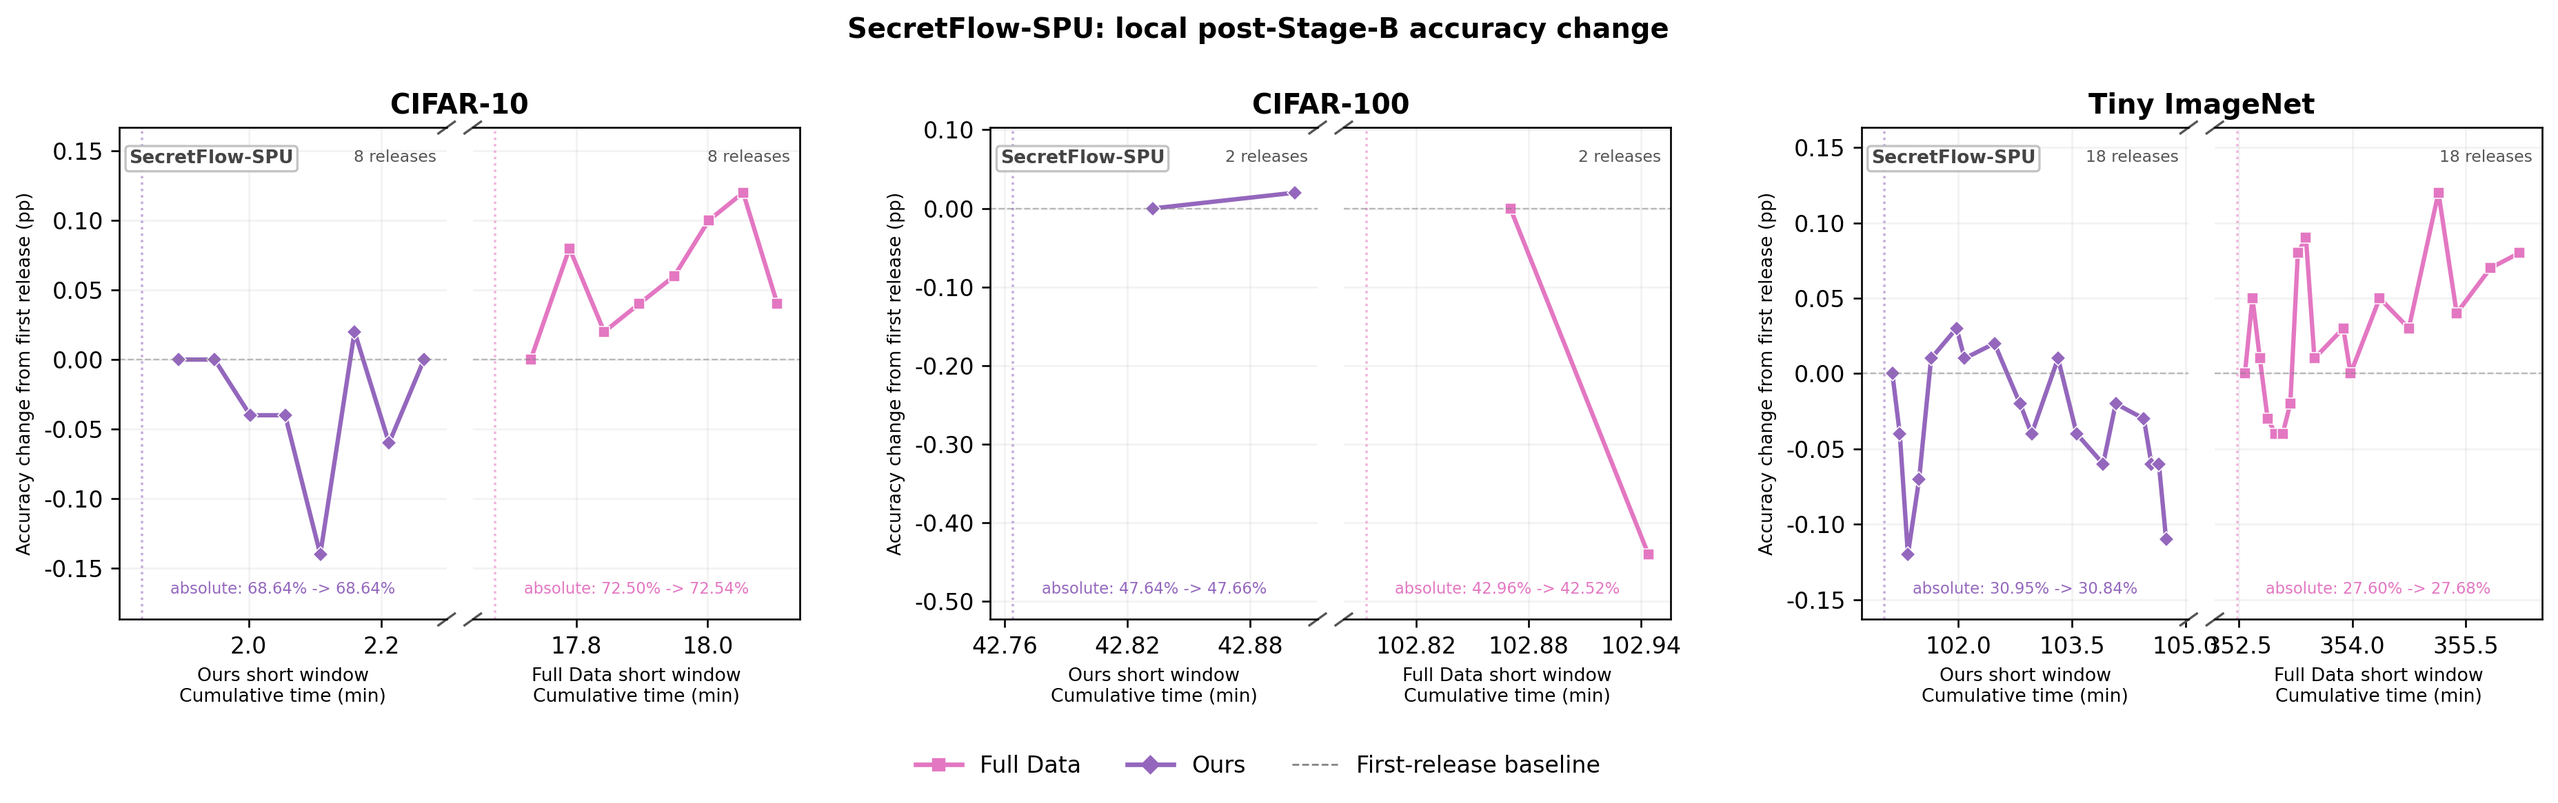
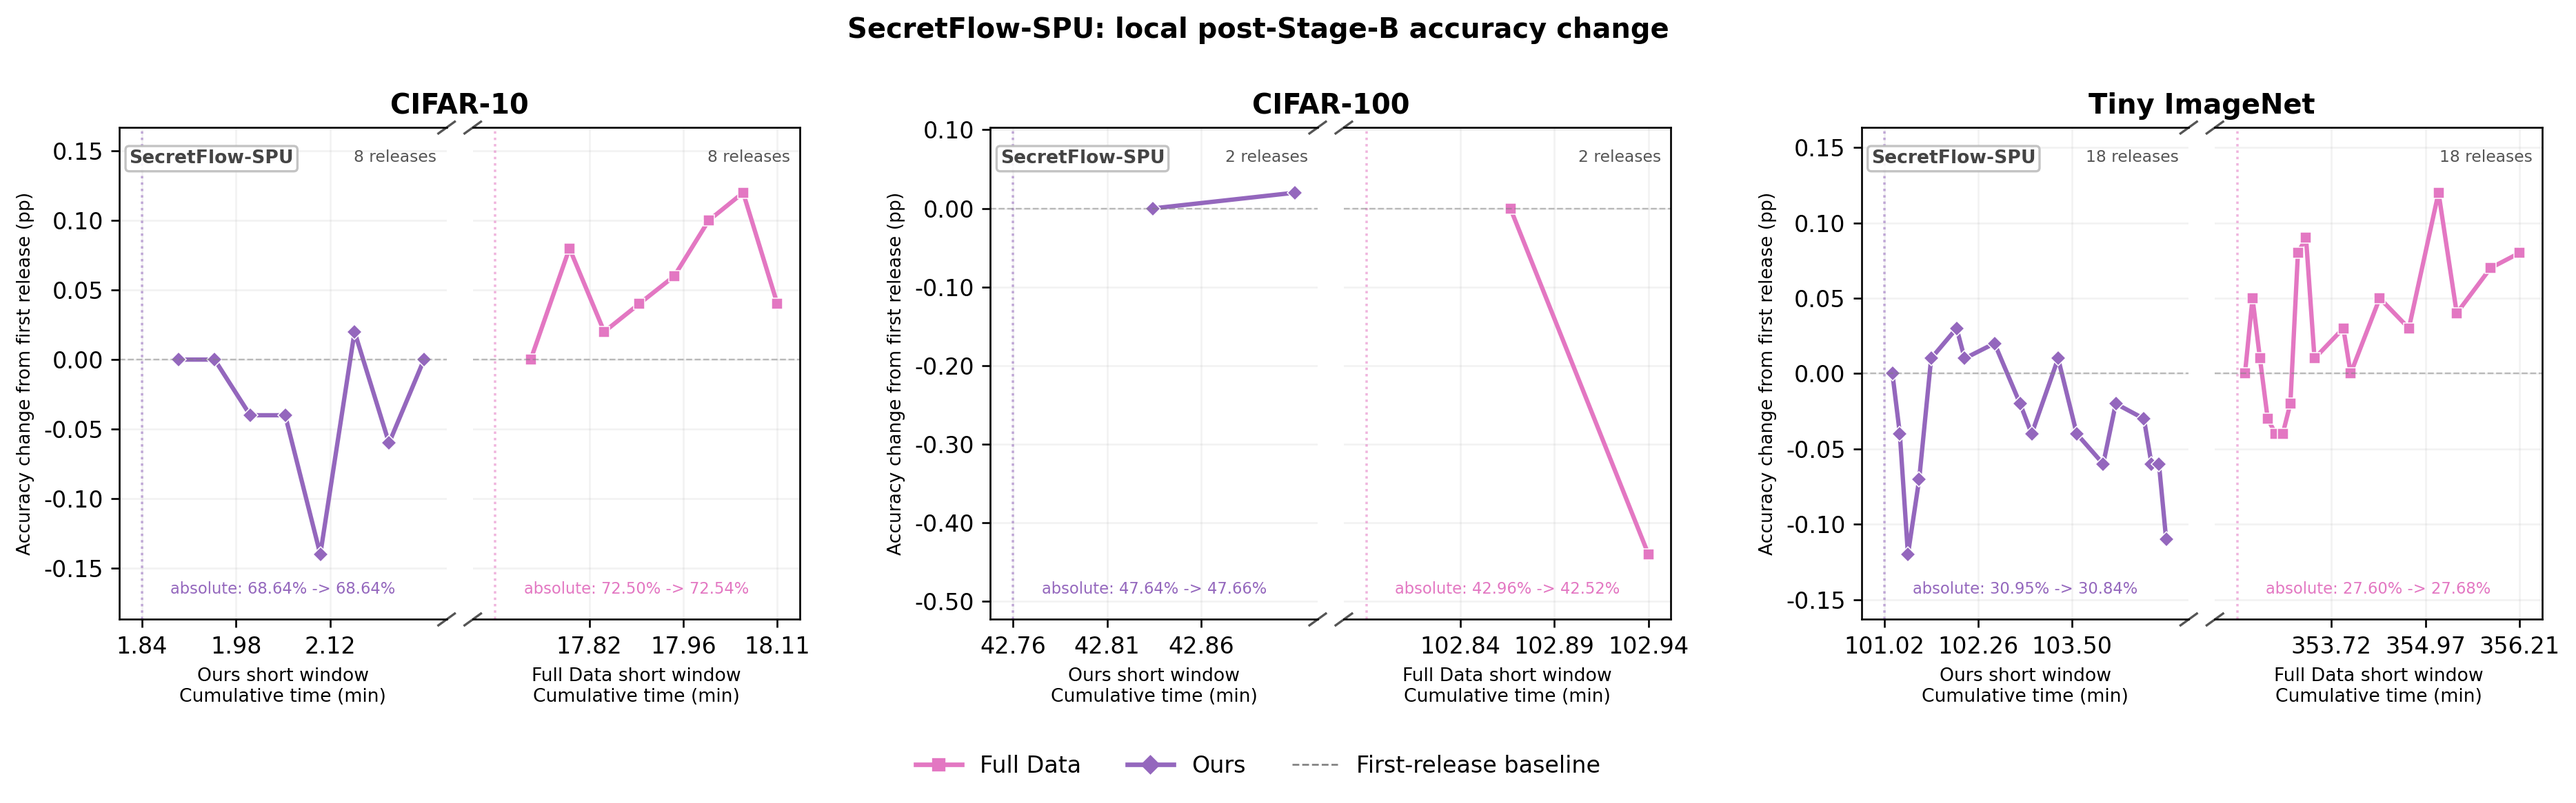
Fix Figure 2b short-axis tick overlap

diff --git a/new_scripts/new_paper_figures/new_build_figures_2_to_5.py b/new_scripts/new_paper_figures/new_build_figures_2_to_5.py
@@ -14,7 +14,7 @@ matplotlib.use("Agg")
 import matplotlib.pyplot as plt
 import numpy as np
 from matplotlib.lines import Line2D
-from matplotlib.ticker import FormatStrFormatter, MaxNLocator, PercentFormatter
+from matplotlib.ticker import FormatStrFormatter, PercentFormatter
 
 
 ROOT = Path(__file__).resolve().parents[2]
@@ -185,8 +185,14 @@ def figure2():
             ax.set_xlim(window_min - 0.08 * span, window_max + 0.08 * span)
             ax.axhline(0.0, color="#808080", linestyle="--", linewidth=0.7, alpha=0.5)
             ax.set_xlabel(window_label + "\nCumulative time (min)", fontsize=8)
-            ax.xaxis.set_major_locator(MaxNLocator(3))
-            ax.ticklabel_format(axis="x", style="plain", useOffset=False)
+            # Keep tick labels away from the diagonal break.  In particular,
+            # Tiny's left-window 105.0 and right-window 352.5 labels otherwise
+            # collide in the narrow gap even though the axes are distinct.
+            candidate_ticks = np.linspace(window_min, window_max, 4)
+            ax.set_xticks(
+                candidate_ticks[:-1] if ax is short_left else candidate_ticks[1:]
+            )
+            ax.xaxis.set_major_formatter(FormatStrFormatter("%.2f"))
             ax.text(
                 0.97, 0.955, "{} releases".format(len(rows)), transform=ax.transAxes,
                 ha="right", va="top", fontsize=7, color="#555555",

diff --git a/progressLog/project_progress.md b/progressLog/project_progress.md
@@ -1567,3 +1567,4 @@
 - 2026-08-09按用户最终指定将Figure 2再次调整为“原始TFE+SPU短轴”：上排严格恢复累计online-secure秒数对数轴、完整蓝/红轨迹、稀疏I型误差条与Stage B→C彩色点线；下排每个数据集以带斜线断口的两个局部短窗分别展开青色Ours与橙色Full，SPU秒数仅换算为分钟缩短标签，完整保留每方法8/2/18个真实点。短轴省略的只是两组观测之间的空白区间，不改变原始坐标或T@Target计算；正文、溯源和图表清单同步说明该视觉边界。
 - 2026-08-09修复Figure 2复查问题：绘图网格从统一2x6改为外层2x3、每个SPU面板内部嵌套1x2短窗，扩大数据集间距以消除CIFAR-100/Tiny y轴与前一面板重叠。SPU归档准确率在Stage B后真实仅变化0.02--0.44pp，不能伪造弯曲；下排改为相对各方法第一次发布的真实accuracy delta（百分点），共享同数据集delta范围并在每窗打印绝对起始->最终准确率，从而可见真实细微波动且不冒充新增收敛。时间坐标、断口、发布点和T@Target均保持原审计数据。
 - 2026-08-09按用户要求将不同y轴语义彻底拆分为Figure 2(a) TFE与Figure 2(b) SPU两个独立PNG/PDF，正文改为分别引用；两图均删除底部说明段，科学边界移入双语正文/图注。SPU Full/Ours配色改为PEA Figure 2的SampleNet-NP粉`#E377C2`/SampleNet-DP紫`#9467BD`。Tiny TFE归档仅seed42(n=1)，没有可计算的样本标准差，因此拒绝伪造I型误差条；C10/C100继续使用真实n=3 I型样本标准差。旧combined文件保留为superseded历史产物但不再由正文引用。
+- 2026-08-09修复Figure 2(b) Tiny短轴断口处横轴刻度重叠：首次尝试自动`prune`因`105.0/352.5`并非恰好落在axis bound而未改变渲染哈希，未作为完成结果；最终显式生成四个等距候选刻度，并删除左短窗最靠断口与右短窗最靠断口的刻度，实际移除中央相撞标签。时间范围、断口、曲线、发布点及审计数据均未改变。
